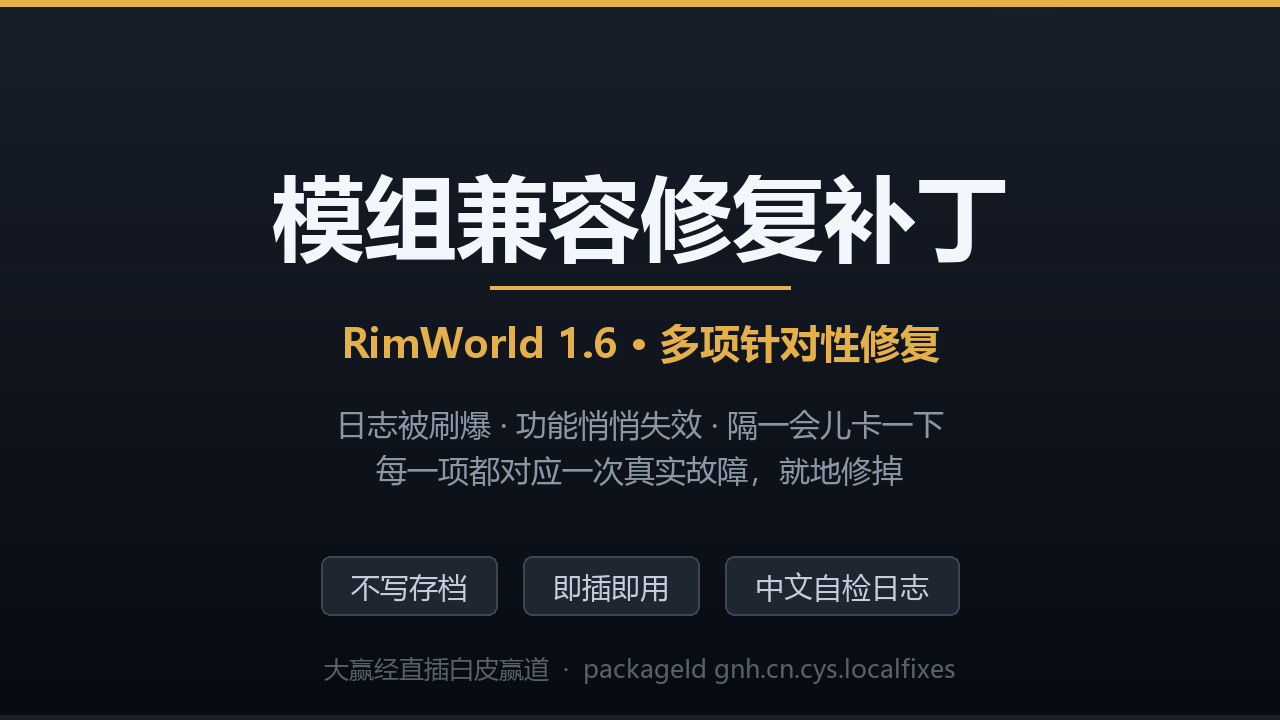
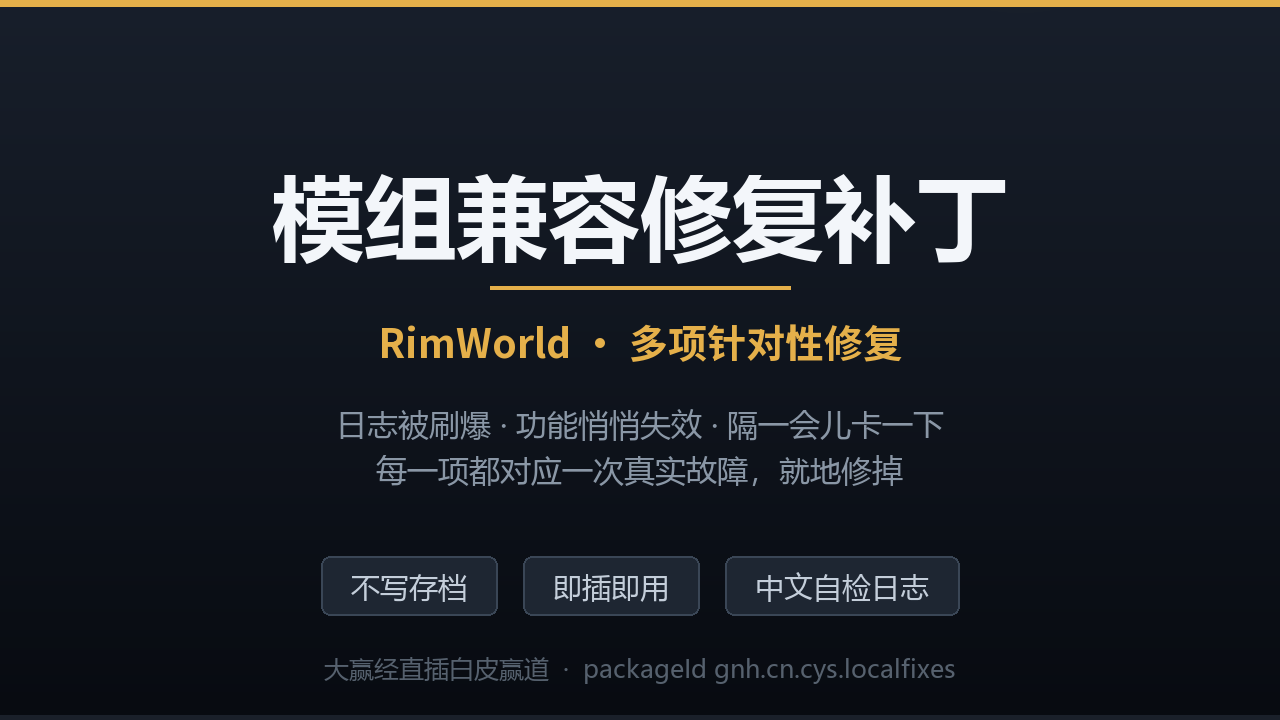
docs(封面): 预览图去掉版本号，标题改为不含 1.6 的通用表述；全部源码标注 AI 辅助编写（DeepSeek娘·汐蓝）

Changed region(s): [[0.25, 0.4278, 0.75, 0.5194]]

diff --git a/src/LeaderTitlePolicy.cs b/src/LeaderTitlePolicy.cs
@@ -1,3 +1,10 @@
+// ---------------------------------------------------------------------------
+// 本文件由 AI 助手「DeepSeek娘·汐蓝」辅助编写。
+// 设计、需求、审阅与实机验证由人类作者（大赢经直插白皮赢道）完成。
+// AI-assisted: written with DeepSeek Niang · Xi Lan (AI);
+// designed, reviewed and validated by the human author.
+// ---------------------------------------------------------------------------
+
 namespace GNH.LocalFixes
 {
     // ==========================================================================

diff --git a/src/SteamWorkshopHookFix.cs b/src/SteamWorkshopHookFix.cs
@@ -1,3 +1,10 @@
+// ---------------------------------------------------------------------------
+// 本文件由 AI 助手「DeepSeek娘·汐蓝」辅助编写。
+// 设计、需求、审阅与实机验证由人类作者（大赢经直插白皮赢道）完成。
+// AI-assisted: written with DeepSeek Niang · Xi Lan (AI);
+// designed, reviewed and validated by the human author.
+// ---------------------------------------------------------------------------
+
 using System;
 using System.Reflection;
 using System.Runtime.Serialization;

diff --git a/src/NmmIdeoTrackerNullFix.cs b/src/NmmIdeoTrackerNullFix.cs
@@ -1,3 +1,10 @@
+// ---------------------------------------------------------------------------
+// 本文件由 AI 助手「DeepSeek娘·汐蓝」辅助编写。
+// 设计、需求、审阅与实机验证由人类作者（大赢经直插白皮赢道）完成。
+// AI-assisted: written with DeepSeek Niang · Xi Lan (AI);
+// designed, reviewed and validated by the human author.
+// ---------------------------------------------------------------------------
+
 using System;
 using System.Collections;
 using System.Collections.Generic;

diff --git a/src/AlliesAreHelpfulCurJobNullFix.cs b/src/AlliesAreHelpfulCurJobNullFix.cs
@@ -1,3 +1,10 @@
+// ---------------------------------------------------------------------------
+// 本文件由 AI 助手「DeepSeek娘·汐蓝」辅助编写。
+// 设计、需求、审阅与实机验证由人类作者（大赢经直插白皮赢道）完成。
+// AI-assisted: written with DeepSeek Niang · Xi Lan (AI);
+// designed, reviewed and validated by the human author.
+// ---------------------------------------------------------------------------
+
 using System;
 using System.Collections.Generic;
 using System.Reflection;

diff --git a/src/AssemblyGetTypesFallbackFix.cs b/src/AssemblyGetTypesFallbackFix.cs
@@ -1,3 +1,10 @@
+// ---------------------------------------------------------------------------
+// 本文件由 AI 助手「DeepSeek娘·汐蓝」辅助编写。
+// 设计、需求、审阅与实机验证由人类作者（大赢经直插白皮赢道）完成。
+// AI-assisted: written with DeepSeek Niang · Xi Lan (AI);
+// designed, reviewed and validated by the human author.
+// ---------------------------------------------------------------------------
+
 using System;
 using System.Collections.Generic;
 using System.Reflection;

diff --git a/src/CrossPromotionUnpatch.cs b/src/CrossPromotionUnpatch.cs
@@ -1,3 +1,10 @@
+// ---------------------------------------------------------------------------
+// 本文件由 AI 助手「DeepSeek娘·汐蓝」辅助编写。
+// 设计、需求、审阅与实机验证由人类作者（大赢经直插白皮赢道）完成。
+// AI-assisted: written with DeepSeek Niang · Xi Lan (AI);
+// designed, reviewed and validated by the human author.
+// ---------------------------------------------------------------------------
+
 using System;
 using System.Collections.Generic;
 using System.Reflection;

diff --git a/src/InstrumentSpaceProbe.cs b/src/InstrumentSpaceProbe.cs
@@ -1,3 +1,10 @@
+// ---------------------------------------------------------------------------
+// 本文件由 AI 助手「DeepSeek娘·汐蓝」辅助编写。
+// 设计、需求、审阅与实机验证由人类作者（大赢经直插白皮赢道）完成。
+// AI-assisted: written with DeepSeek Niang · Xi Lan (AI);
+// designed, reviewed and validated by the human author.
+// ---------------------------------------------------------------------------
+
 using System;
 using System.Collections.Generic;
 using System.Reflection;

diff --git a/src/LocalFixesMod.cs b/src/LocalFixesMod.cs
@@ -1,3 +1,10 @@
+// ---------------------------------------------------------------------------
+// 本文件由 AI 助手「DeepSeek娘·汐蓝」辅助编写。
+// 设计、需求、审阅与实机验证由人类作者（大赢经直插白皮赢道）完成。
+// AI-assisted: written with DeepSeek Niang · Xi Lan (AI);
+// designed, reviewed and validated by the human author.
+// ---------------------------------------------------------------------------
+
 using System;
 using System.Collections.Generic;
 using System.Reflection;

diff --git a/src/MusicManagerFadeoutFix.cs b/src/MusicManagerFadeoutFix.cs
@@ -1,3 +1,10 @@
+// ---------------------------------------------------------------------------
+// 本文件由 AI 助手「DeepSeek娘·汐蓝」辅助编写。
+// 设计、需求、审阅与实机验证由人类作者（大赢经直插白皮赢道）完成。
+// AI-assisted: written with DeepSeek Niang · Xi Lan (AI);
+// designed, reviewed and validated by the human author.
+// ---------------------------------------------------------------------------
+
 using System;
 using System.Collections.Generic;
 using System.Reflection;

diff --git a/src/TechHediffsZeroBudgetFix.cs b/src/TechHediffsZeroBudgetFix.cs
@@ -1,3 +1,10 @@
+// ---------------------------------------------------------------------------
+// 本文件由 AI 助手「DeepSeek娘·汐蓝」辅助编写。
+// 设计、需求、审阅与实机验证由人类作者（大赢经直插白皮赢道）完成。
+// AI-assisted: written with DeepSeek Niang · Xi Lan (AI);
+// designed, reviewed and validated by the human author.
+// ---------------------------------------------------------------------------
+
 using System;
 using System.Collections.Generic;
 using System.Reflection;

diff --git a/src/VFEEInstrumentSpaceFix.cs b/src/VFEEInstrumentSpaceFix.cs
@@ -1,3 +1,10 @@
+// ---------------------------------------------------------------------------
+// 本文件由 AI 助手「DeepSeek娘·汐蓝」辅助编写。
+// 设计、需求、审阅与实机验证由人类作者（大赢经直插白皮赢道）完成。
+// AI-assisted: written with DeepSeek Niang · Xi Lan (AI);
+// designed, reviewed and validated by the human author.
+// ---------------------------------------------------------------------------
+
 using System;
 using System.Collections.Generic;
 using System.Reflection;

diff --git a/src/VehicleFrameworkDebugFix.cs b/src/VehicleFrameworkDebugFix.cs
@@ -1,3 +1,10 @@
+// ---------------------------------------------------------------------------
+// 本文件由 AI 助手「DeepSeek娘·汐蓝」辅助编写。
+// 设计、需求、审阅与实机验证由人类作者（大赢经直插白皮赢道）完成。
+// AI-assisted: written with DeepSeek Niang · Xi Lan (AI);
+// designed, reviewed and validated by the human author.
+// ---------------------------------------------------------------------------
+
 using System;
 using System.Collections.Generic;
 using System.Reflection;
